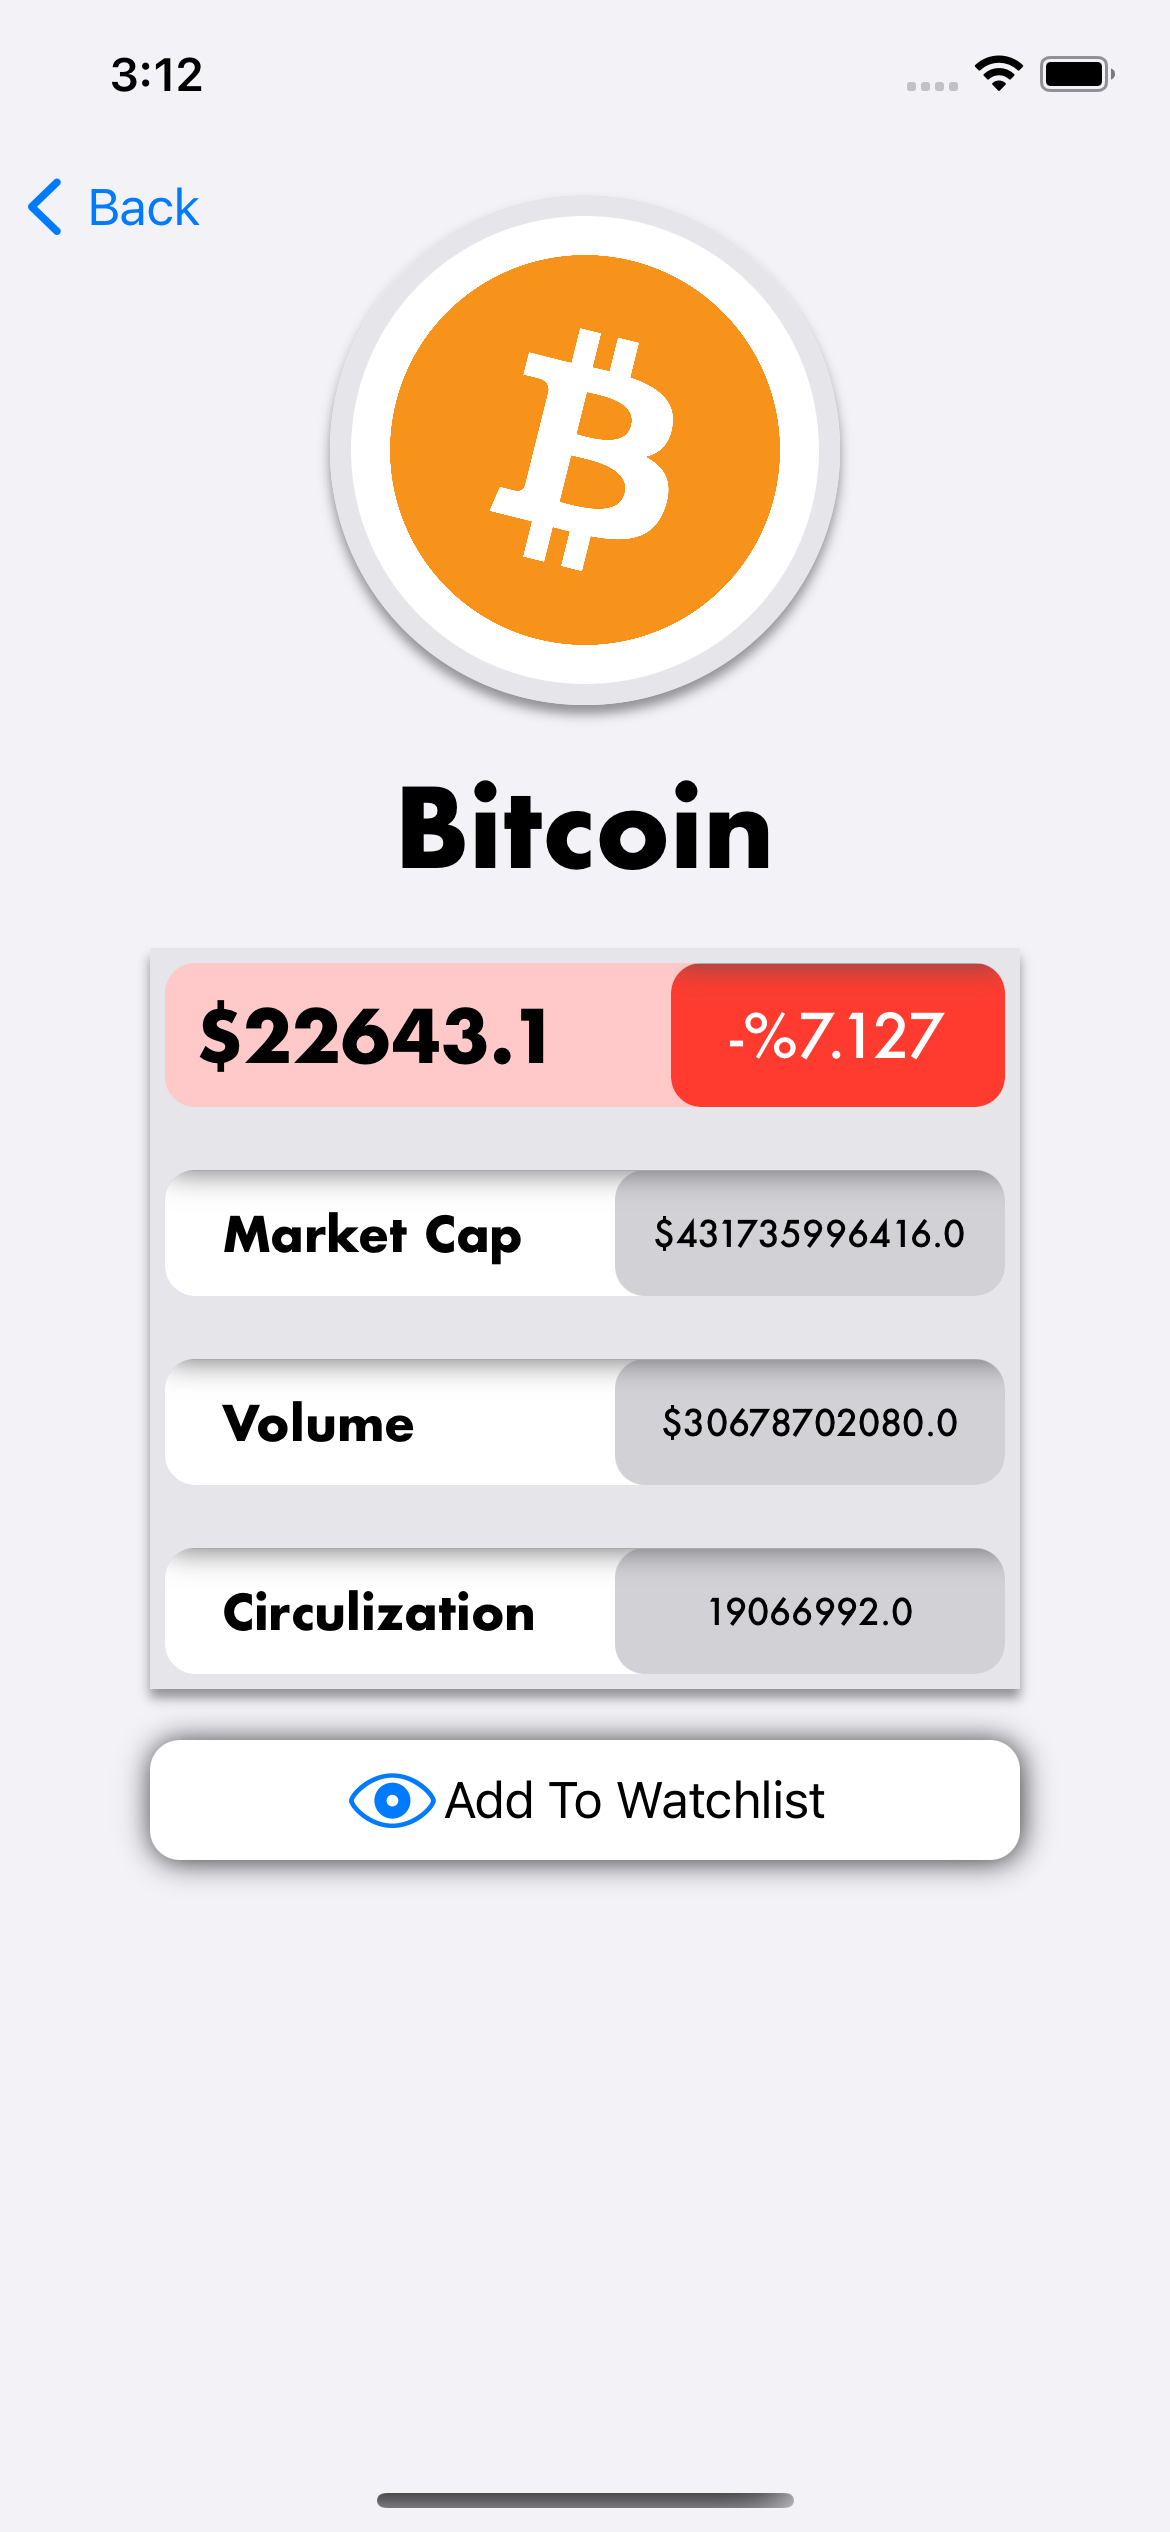
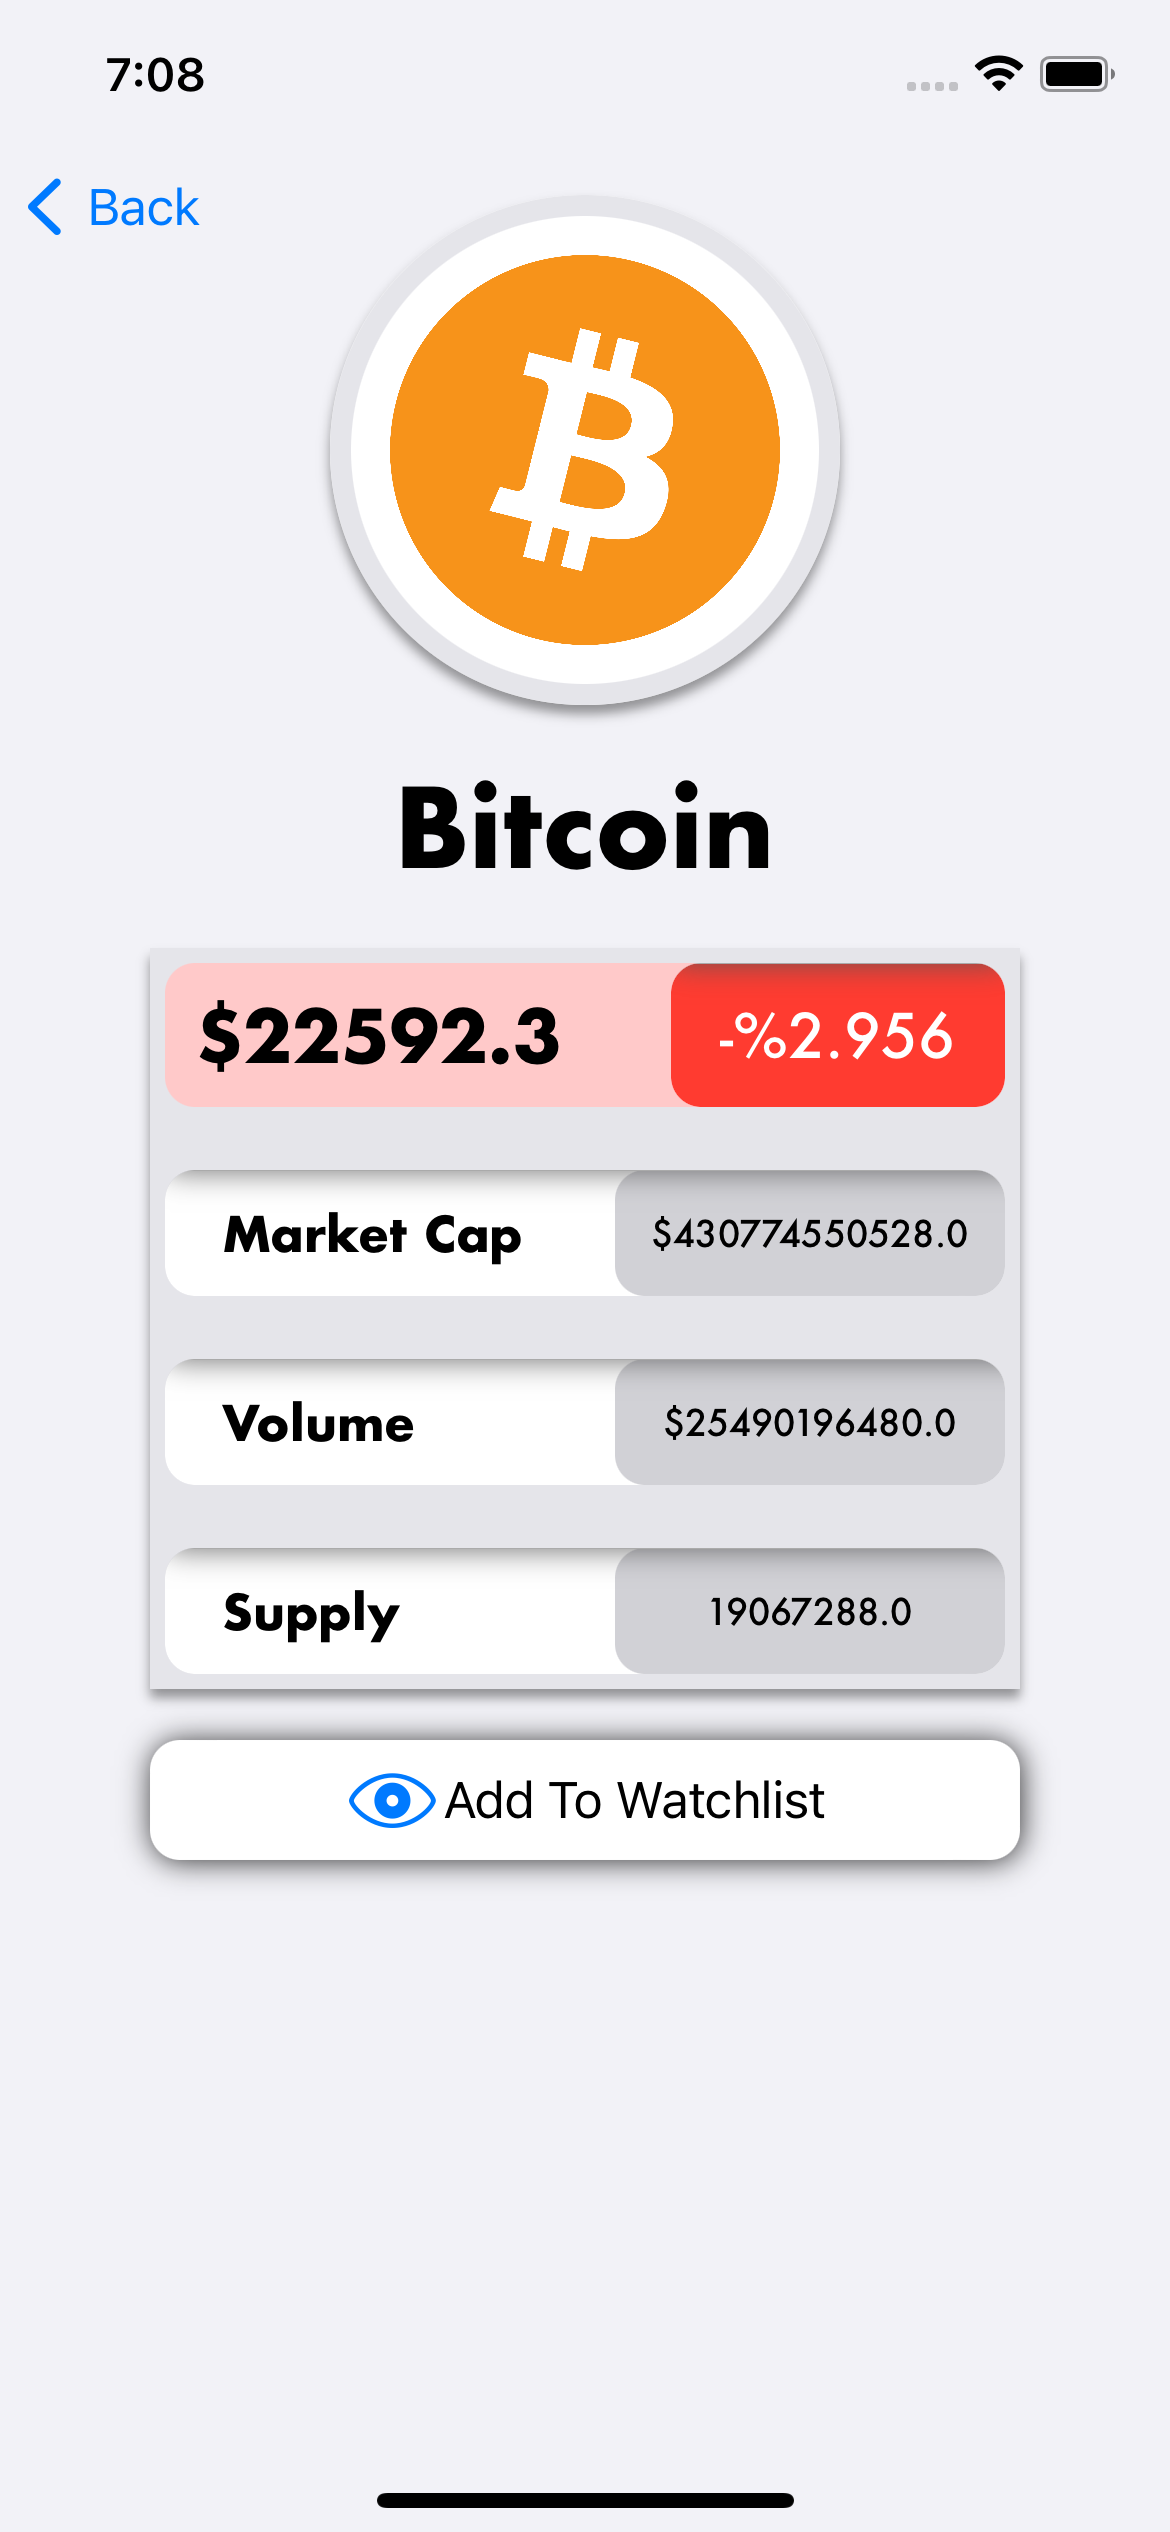
Fixed wrong UI Label.

diff --git a/CryptoApp/UI/Views/DetailsView/Helpers/DetailsTableViewHelper.swift b/CryptoApp/UI/Views/DetailsView/Helpers/DetailsTableViewHelper.swift
@@ -60,7 +60,7 @@ extension DetailsTableViewHelper: UITableViewDataSource{
             cell.titleLabel.text = "Volume"
             cell.valueLabel.text = "$" + (self.data?.volume ?? "-")
         } else if indexPath.item == 2{
-            cell.titleLabel.text = "Circulization"
+            cell.titleLabel.text = "Supply"
             cell.valueLabel.text = self.data?.circulization ?? "-"
         }
         return cell
